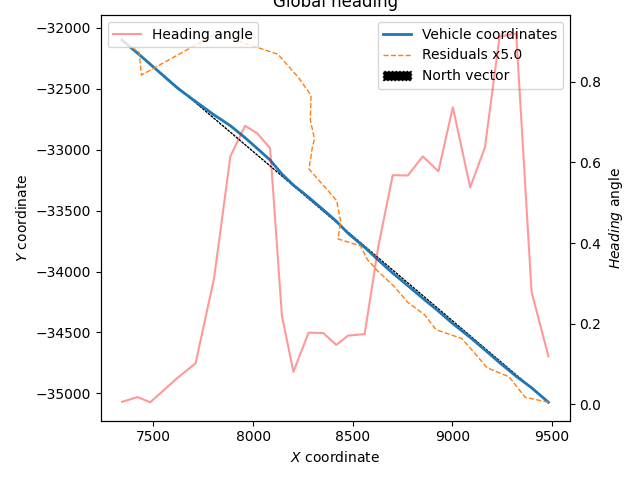
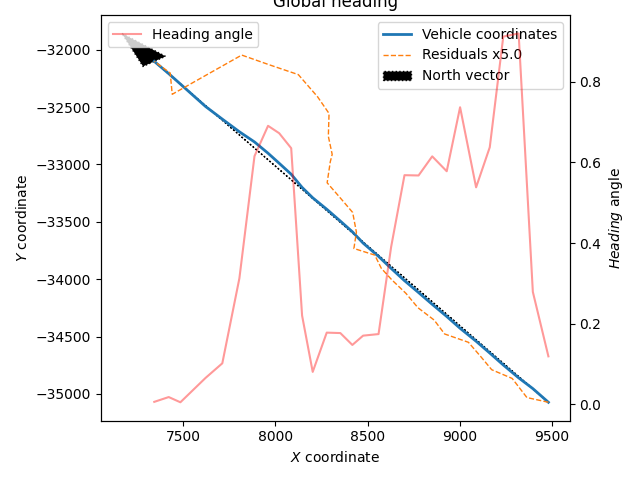
Fix north vector visualization

diff --git a/gnss_localization/visualizations.py b/gnss_localization/visualizations.py
@@ -110,8 +110,8 @@ def plot_headings(
         vehicle_coordinates[0, 1],
         vehicle_coordinates[-1, 0] - vehicle_coordinates[0, 0],
         vehicle_coordinates[-1, 1] - vehicle_coordinates[0, 1],
-        # head_width=150,
-        # head_length=300,
+        head_width=150,
+        head_length=300,
         fc="k",
         ec="k",
         linestyle="dotted",
